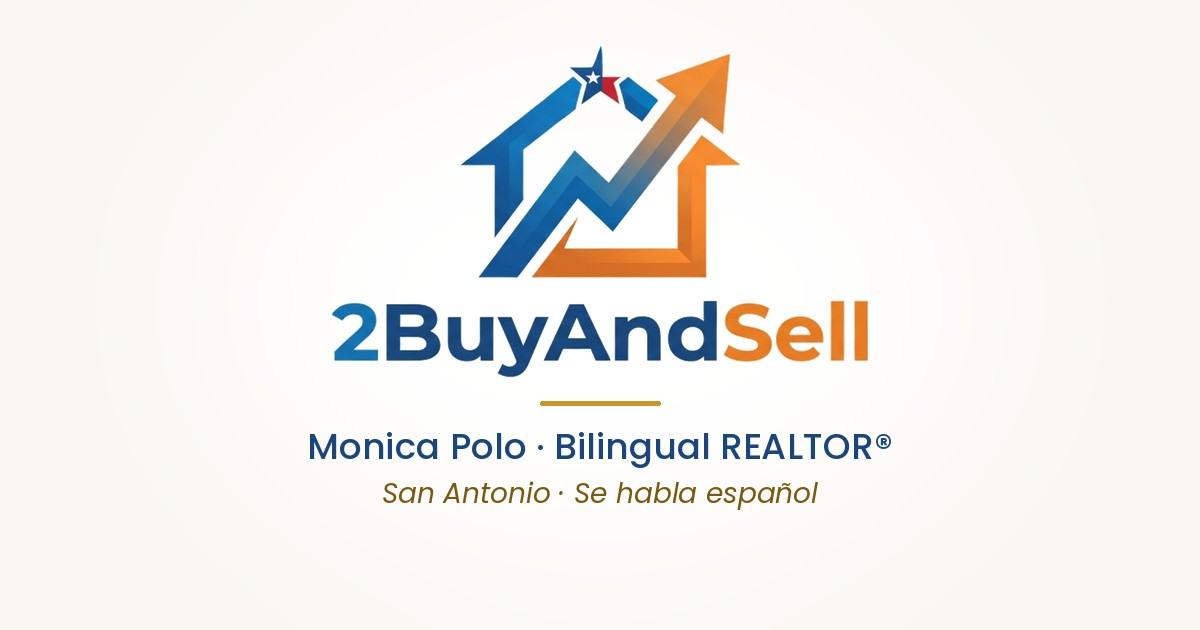
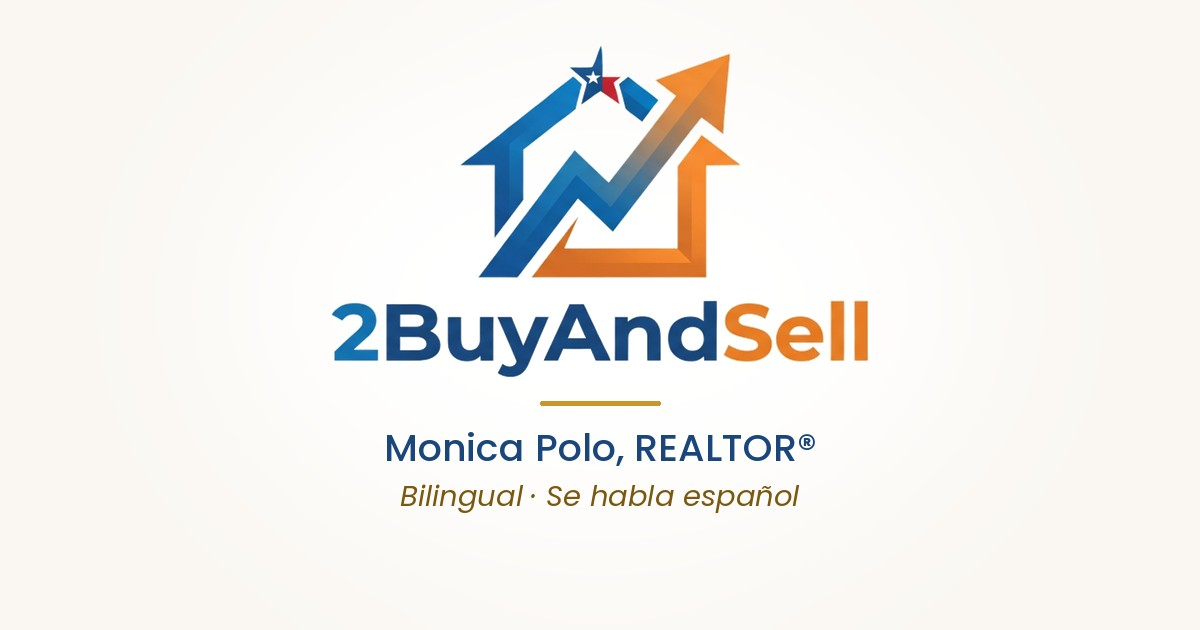
Wording: 'Monica Polo, REALTOR® · Bilingual · Se habla español' (no adjective on the REALTOR® mark) in share picture, title and page
Claude-Session: https://claude.ai/code/session_017jrGxBfsKQJeHUgBzzaMQc

Changed region(s): [[0.2467, 0.6635, 0.74, 0.8143]]

diff --git a/index.html b/index.html
@@ -3,21 +3,21 @@
 <head>
 <meta charset="utf-8">
 <meta name="viewport" content="width=device-width, initial-scale=1">
-<title>Monica Polo | Bilingual Realtor San Antonio | Habla Español</title>
-<meta name="description" content="Monica Polo is a bilingual REALTOR® in San Antonio helping families buy and sell homes in English or Spanish. Free 2-minute readiness check. ¡Hablo español!">
+<title>Monica Polo, REALTOR® | Bilingual Real Estate Agent San Antonio | Se habla español</title>
+<meta name="description" content="Monica Polo, REALTOR®, is a bilingual real estate agent in San Antonio helping families buy and sell homes in English or Spanish. Free 2-minute readiness check. ¡Hablo español!">
 <link rel="canonical" href="https://www.2buyandsell.com/">
 <meta property="og:type" content="website">
 <meta property="og:site_name" content="2BuyAndSell">
-<meta property="og:title" content="Monica Polo · Bilingual Realtor in San Antonio · Realtor que habla español">
-<meta property="og:description" content="Buy or sell a home in San Antonio with a REALTOR® who explains every step in English or Spanish. Free 2-minute readiness check. Evaluación gratis de 2 minutos.">
+<meta property="og:title" content="Monica Polo, REALTOR® · Bilingual · Se habla español">
+<meta property="og:description" content="Buy or sell a home in San Antonio with an agent who explains every step in English or Spanish. Free 2-minute readiness check. Evaluación gratis de 2 minutos.">
 <meta property="og:url" content="https://www.2buyandsell.com/">
-<meta property="og:image" content="https://www.2buyandsell.com/img/og-share.jpg">
+<meta property="og:image" content="https://www.2buyandsell.com/img/og-share2.jpg">
 <meta property="og:image:width" content="1200">
 <meta property="og:image:height" content="630">
-<meta property="og:image:alt" content="2BuyAndSell logo. Monica Polo, Bilingual REALTOR, San Antonio. Se habla español.">
-<meta name="twitter:image" content="https://www.2buyandsell.com/img/og-share.jpg">
+<meta property="og:image:alt" content="2BuyAndSell logo. Monica Polo, REALTOR®. Bilingual. Se habla español. San Antonio.">
+<meta name="twitter:image" content="https://www.2buyandsell.com/img/og-share2.jpg">
 <meta name="twitter:card" content="summary_large_image">
-<script type="application/ld+json">[{"@context": "https://schema.org", "@type": "RealEstateAgent", "@id": "https://www.2buyandsell.com/#monica", "name": "Monica Polo", "description": "Bilingual (English and Spanish) REALTOR® helping families buy and sell homes in San Antonio and Bexar County.", "url": "https://www.2buyandsell.com/", "image": "https://www.2buyandsell.com/img/og-share.jpg", "telephone": "+1-210-249-8331", "address": {"@type": "PostalAddress", "addressLocality": "San Antonio", "addressRegion": "TX", "addressCountry": "US"}, "areaServed": [{"@type": "City", "name": "San Antonio, TX"}, {"@type": "City", "name": "Converse, TX"}, {"@type": "City", "name": "Schertz, TX"}, {"@type": "City", "name": "Cibolo, TX"}, {"@type": "City", "name": "Universal City, TX"}, {"@type": "City", "name": "Live Oak, TX"}, {"@type": "City", "name": "Selma, TX"}, {"@type": "City", "name": "New Braunfels, TX"}, {"@type": "City", "name": "Boerne, TX"}, {"@type": "City", "name": "Helotes, TX"}, {"@type": "AdministrativeArea", "name": "Bexar County, TX"}], "knowsLanguage": ["en", "es"], "parentOrganization": {"@type": "RealEstateAgent", "name": "Reliance Residential Realty"}, "memberOf": {"@type": "Organization", "name": "San Antonio Board of REALTORS®"}, "sameAs": ["https://www.instagram.com/agentmonipolo/"]}, {"@context": "https://schema.org", "@type": "FAQPage", "mainEntity": [{"@type": "Question", "name": "Does the readiness check cost anything?", "acceptedAnswer": {"@type": "Answer", "text": "No. It's free, takes about 2 minutes and doesn't check your credit. I reply to you personally."}}, {"@type": "Question", "name": "How do I find out what my home is worth?", "acceptedAnswer": {"@type": "Answer", "text": "Enter your address in the home value section on this page. I'll send you a personal estimate within one business day."}}, {"@type": "Question", "name": "How do I reach you?", "acceptedAnswer": {"@type": "Answer", "text": "Call me at (210) 249-8331, or use Get in touch on this page."}}, {"@type": "Question", "name": "¿Cuesta algo la evaluación?", "acceptedAnswer": {"@type": "Answer", "text": "No. Es gratis, toma unos 2 minutos y no revisa tu crédito. Te respondo personalmente."}}, {"@type": "Question", "name": "¿Cómo sé cuánto vale mi casa?", "acceptedAnswer": {"@type": "Answer", "text": "Escribe tu dirección en la sección del valor de tu casa en esta página. Te mando un estimado personal en un día hábil."}}, {"@type": "Question", "name": "¿Cómo te contacto?", "acceptedAnswer": {"@type": "Answer", "text": "Llámame al (210) 249-8331, o usa Contáctame en esta página."}}]}]</script>
+<script type="application/ld+json">[{"@context": "https://schema.org", "@type": "RealEstateAgent", "@id": "https://www.2buyandsell.com/#monica", "name": "Monica Polo", "description": "Bilingual (English and Spanish) real estate agent helping families buy and sell homes in San Antonio and Bexar County.", "url": "https://www.2buyandsell.com/", "image": "https://www.2buyandsell.com/img/og-share2.jpg", "telephone": "+1-210-249-8331", "address": {"@type": "PostalAddress", "addressLocality": "San Antonio", "addressRegion": "TX", "addressCountry": "US"}, "areaServed": [{"@type": "City", "name": "San Antonio, TX"}, {"@type": "City", "name": "Converse, TX"}, {"@type": "City", "name": "Schertz, TX"}, {"@type": "City", "name": "Cibolo, TX"}, {"@type": "City", "name": "Universal City, TX"}, {"@type": "City", "name": "Live Oak, TX"}, {"@type": "City", "name": "Selma, TX"}, {"@type": "City", "name": "New Braunfels, TX"}, {"@type": "City", "name": "Boerne, TX"}, {"@type": "City", "name": "Helotes, TX"}, {"@type": "AdministrativeArea", "name": "Bexar County, TX"}], "knowsLanguage": ["en", "es"], "parentOrganization": {"@type": "RealEstateAgent", "name": "Reliance Residential Realty"}, "memberOf": {"@type": "Organization", "name": "San Antonio Board of REALTORS®"}, "sameAs": ["https://www.instagram.com/agentmonipolo/"]}, {"@context": "https://schema.org", "@type": "FAQPage", "mainEntity": [{"@type": "Question", "name": "Does the readiness check cost anything?", "acceptedAnswer": {"@type": "Answer", "text": "No. It's free, takes about 2 minutes and doesn't check your credit. I reply to you personally."}}, {"@type": "Question", "name": "How do I find out what my home is worth?", "acceptedAnswer": {"@type": "Answer", "text": "Enter your address in the home value section on this page. I'll send you a personal estimate within one business day."}}, {"@type": "Question", "name": "How do I reach you?", "acceptedAnswer": {"@type": "Answer", "text": "Call me at (210) 249-8331, or use Get in touch on this page."}}, {"@type": "Question", "name": "¿Cuesta algo la evaluación?", "acceptedAnswer": {"@type": "Answer", "text": "No. Es gratis, toma unos 2 minutos y no revisa tu crédito. Te respondo personalmente."}}, {"@type": "Question", "name": "¿Cómo sé cuánto vale mi casa?", "acceptedAnswer": {"@type": "Answer", "text": "Escribe tu dirección en la sección del valor de tu casa en esta página. Te mando un estimado personal en un día hábil."}}, {"@type": "Question", "name": "¿Cómo te contacto?", "acceptedAnswer": {"@type": "Answer", "text": "Llámame al (210) 249-8331, o usa Contáctame en esta página."}}]}]</script>
 <meta name="theme-color" content="#1a467c">
 <link rel="preconnect" href="https://fonts.googleapis.com">
 <link rel="preconnect" href="https://fonts.gstatic.com" crossorigin>
@@ -713,7 +713,7 @@ select.t{appearance:auto}
   </div>
 </header>
 
-<main id="view-tool"><div id="heroWrap" hidden></div><div class="shell"><aside class="side" id="side"></aside><div class="col" id="app"></div></div><section class="about-agent" id="about" aria-label="About Monica Polo · Acerca de Monica Polo"><div class="in"><div class="aa-col" lang="en"><h2>Monica Polo, bilingual REALTOR® in San Antonio</h2>
+<main id="view-tool"><div id="heroWrap" hidden></div><div class="shell"><aside class="side" id="side"></aside><div class="col" id="app"></div></div><section class="about-agent" id="about" aria-label="About Monica Polo · Acerca de Monica Polo"><div class="in"><div class="aa-col" lang="en"><h2>Monica Polo, REALTOR® · Bilingual · San Antonio</h2>
 <p>I'm Monica Polo, a sales agent with Reliance Residential Realty and a member of the San Antonio Board of REALTORS®. I help families buy and sell homes across San Antonio and Bexar County, and I explain every step in plain words, in English or Spanish, with no pressure.</p>
 <h3>How I can help</h3><ul>
 <li><b>Buying your first home.</b> Start with the free 2-minute readiness check, then we make a plan together.</li>

diff --git a/about.html b/about.html
@@ -11,7 +11,7 @@
 <meta property="og:title" content="About 2BuyAndSell">
 <meta property="og:description" content="A free 2-minute check for buying or selling a home in San Antonio, answered personally in English or Spanish. Evaluación gratis de 2 minutos, en inglés o español.">
 <meta property="og:url" content="https://www.2buyandsell.com/about.html">
-<meta property="og:image" content="https://www.2buyandsell.com/img/og-share.jpg">
+<meta property="og:image" content="https://www.2buyandsell.com/img/og-share2.jpg">
 <meta property="og:image:width" content="1200">
 <meta property="og:image:height" content="630">
 <meta name="twitter:card" content="summary_large_image">

diff --git a/contact.html b/contact.html
@@ -11,7 +11,7 @@
 <meta property="og:title" content="Contact 2BuyAndSell">
 <meta property="og:description" content="Contact 2BuyAndSell with questions about buying or selling a home in San Antonio. Contáctanos en inglés o español.">
 <meta property="og:url" content="https://www.2buyandsell.com/contact.html">
-<meta property="og:image" content="https://www.2buyandsell.com/img/og-share.jpg">
+<meta property="og:image" content="https://www.2buyandsell.com/img/og-share2.jpg">
 <meta property="og:image:width" content="1200">
 <meta property="og:image:height" content="630">
 <meta name="twitter:card" content="summary_large_image">
